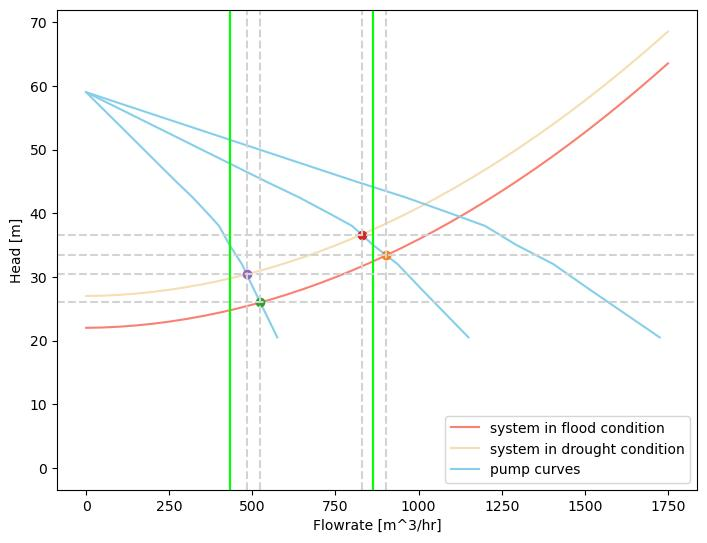
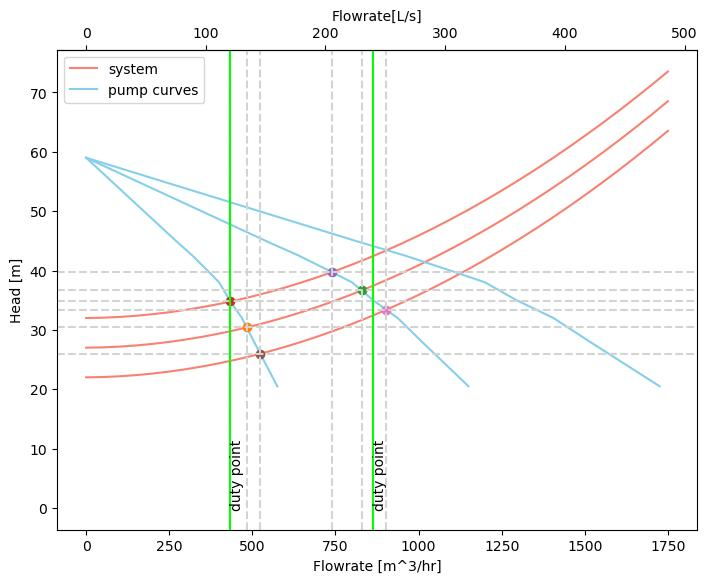
updayes

diff --git a/beccs.html b/beccs.html
@@ -53,72 +53,27 @@
 									<p>This project was presented as a requirement for the course MECH 450C: Energy Conversion and Storage, taught by Professor <b>Andrew Rowe</b>.
 										This project was done by myself, Jersey Kertawidjaja, and my teamate <b>Pouria Fyezi Oskouei</b>.
 									</p>
-									<h2>Background and Objectives</h2>
-									<p>One of the biggest challenges in the energy industry since industrialization is how to overcome greenhouse
-										gas (GHG) emissions, especially in the past three decades. In general, there are three ways to alleviate this
-										problem: 1- Utilizing more efficient energy systems 2- Using renewable energy sources 3- Finding a way to
-										lower the ever-growing amount of GHGs already being emitted in the atmosphere over a long time.
-									</p>
-									<p>
-										The latter method will be the focus of this project. Since carbon dioxide (CO2) presents itself as a major
-										GHG causing climate change, it is the substance in particular that is aimed to be reduced. To have a better
-										understanding as to why this is an issue to be addressed, the pre-industrial CO2 amount in the atmosphere
-										was 280ppm (part per million) or less. However, this has risen to more than 419ppm. This increase
-										indicates that the amount of CO2 released in the past two centuries is more than 1T tons (1012 Tons=1015
-										Kg). The increase causing climate change, which is one of the determinant reasons resulting in 1.2 °C
-										increase in average global temperature relative to the late-19th century. It is estimated, with the same
-										slope of GHG emissions, at the end of this century the mole fraction of CO2 in the atmosphere will reach
-										about 800ppm which will result in more than 4.5 °C temperature rise globally.
-									</p>
-									<p>
-										One of the proposed and currently used method to remove carbon from the atmosphere is called Direct
-										Air Capture (DAC), which involves the capture of CO2 directly from ambient air. It uses a combination of
-										chemical processes and engineered systems to selectively extract CO2 molecules from the atmosphere,
-										even when it is present in trace amounts. DAC facilities typically consist of large fans or other air intake
-										mechanisms that draw in air, which is then processed through a series of chemical sorbents or absorbents
-										designed to capture the CO2. Once the CO2 is captured, it can be separated from the sorbent, compressed,
-										and stored for subsequent use or long-term sequestration.
-									</p>
-									<p>
-										The captured CO2 can be used for a variety of purposes, including carbon-neutral fuel production,
-										enhanced oil recovery, or for direct underground storage in geological formations. DAC is considered a
-										promising technology for addressing the challenge of reducing atmospheric CO2 concentrations and
-										mitigating climate change. However, it is still relatively expensive and energy-intensive compared to some
-										other carbon removal methods.
-									</p>	
-									<!-- <p><b>bold</b> and this is <strong>strong</strong>. This is <i>italic</i> and this is <em>emphasized</em>.
-									This is <sup>superscript</sup> text and this is <sub>subscript</sub> text.
-									This is <u>underlined</u> and this is code: <code>for (;;) { ... }</code>.
-									Finally, this is a <a href="#">link</a>.</p> -->
-									
-									<hr />
-
-									<h2>Methods</h2>
-									<p>The purpose of this project is to conduct an exergetic analysis of a DAC system coupled with a power cycle
+									<h2>Objective</h2>
+									<p>The purpose of this project is to conduct an exergetic analysis of a Direct Air Capture (DAC) system coupled with a power cycle
 										(that runs on natural gas) and see how DAC affects the efficiency of the system. This configuration of biogas
 										power cycle and carbon capture is called Bioenergy with carbon capture and storage (BECCS) and is quite
 										an alluring solution to the climate issue.
 									</p>
-									<p>
-										The exergy destruction in the system can be pointed out in the process and so does respective solutions
-										to alleviate them. Moreover, as opposed to the DAC plants being currently run, we aim to find a better
-										input energy source (other than natural gas, which in its own utilization produces CO2) and evaluate their
-										corresponding feasibility.
-									</p>
-									<p>
+									<!-- <p>
 										Throughout the upcoming sections of the report, exergy analysis of a power cycle and CCS will be
 										conducted separately. Total exergy destruction will be calculated from the cumulative amount of each
 										device of each system, done to allocate the locations of large exergy destruction. The exhaust of the power
 										cycle system would then be coupled with the inlet air of the CCS. The affects of change in concentrations
 										can be noticed in CCS fuel requirements, and so does how the CCS affects the efficiency of the power cycle,
 										as it requires more fuel input. 
-									</p>
+									</p> -->
 
-									<h2>Result of Exergetic Analysis</h2>
+									<h2>Exergetic Analysis</h2>
 
-									<p>Exergetic calculations need to be done on the power cycle system as well as the carbon capture
-										component. Exergy of the states present in the components must be defined. Below are the expressions
-										that will be used for defining the exergetic values:
+									<p>Exergetic calculations were required to be done on the power cycle system as well as the carbon capture
+										component. My part specifically, was on the power cycle exergy analysis.<br /> <br />
+										
+										Below are the expressions that will be used for defining the exergetic values:
 									</p>
 									
 
@@ -137,13 +92,16 @@
 
 									<p>In order to compare the system effeciency of a typical natural gas (methane) power cycle, equipt with CCS,
 										with a biogas (methane from biological sources) power cycle system absent CCS, the schematic of the
-										process of power generation is needed.
+										process of power generation is needed. <b>Below is an image of the cycle generated with AutoCAD:</b>
 									</p>
 									
 									
 									<span class="image fit"><img src="images/exergy/exergy_thumbnail.png" alt="" /></span>
 
 									<h3>Component Breakdowns</h3>
+									<p>With the components broken down, a component exergy flux analysis can be conducted.<b> I utilized JupyterLab and CoolProp to store and organize
+										state properties of each components:</b>
+									</p>
 									<div class="row">
 										<div class="col-6 col-12-small">
 
@@ -190,105 +148,23 @@
 									</div>
 									<hr />
 
-									<h2>Carbon Capture System</h2>
 									<h2>Combination of powerplant and ccs</h2>
-									<p>The purpose of this section is to evaluate the coexistence of CCS and PP unit in a system at the same
-										time, in a way that the inflow for CCS is sourced from PP’s exhaust. As mentioned, this flow is almost 210
-										kg/s and CO2’s mole fraction in this flow is 9.5%.
-									</p>
-									<span class="image fit"><img src="images/exergy/exergy_ccs_combined.png" alt="" /></span>
-									<p>As it is seen from Figure 16, we neglect the air flow coming to the system which is actually a very big
-										amount however no exergetic value involved in it. The remarkable point in this combined system is
-										almost half the amount of methane being used in powerplant has to be spent for the CCS, this fact
-										decreases the whole system’s efficiency. To calculate the efficiency and come up the important values of
-										the system the following chart is shown:
-									</p>
-									<div class="table-wrapper">
-										<table>
-											<thead>
-												<tr>
-													<th>Exergy Flow</th>
-													<th>Values</th>
-												</tr>
-											</thead>
-											<tbody>
-												<tr>
-													<td>Total methane</td>
-													<td>17.07 kg/s</td>
-												</tr>
-												<tr>
-													<td>Turbine work (Powerplant)</td>
-													<td>143.58 MW</td>
-												</tr>
-												<tr>
-													<td>Compressed CO2</td>
-													<td>1 Mt of CO2/year</td>
-												</tr>
-												<tr>
-													<td>Heat from PP</td>
-													<td>490 MW at 323 K</td>
-												</tr>
-												<tr>
-													<td>Heat from the CCS</td>
-													<td>63 MW (calculated in the work loss) at 294 K</td>
-												</tr>
-											</tbody>
-										</table>
-									</div>
-									<p>To amount of exergetic flow for the heat coming out of PP is somewhat remarkable, although the quality
-										of this heat is only 15.5% the amount is considerable. Maybe there could be some way to take advantage
-										of this such as preheating process in CCS as can be seen in.
-									</p>
-									<p>All in all, the total efficiency of the system is calculated according to these values, which comes at
-										18.20% considering the 25.32% powerplant efficiency, this value is somehow not too bad.
+									<p>My teamate, Pouria, conducted the exergy analysis for the carbon capture system similarly.
+										To summarize, the total efficiency of the system (Power plant + Carbon Capture) comes at
+										18.20%. Considering the 25.32% powerplant efficiency, the addition of the carbon capture system, did not greatly
+										affect the system negatively.
 									</p>
 									<h2>Evaluation of sources for biogas</h2>
-									<p>The exergetic analysis conducted in section 3 was done using methane natural gas (CH4), of no source. But
-										when considering natural gas sources and carbon emissions, it is very important to consider the carbon
-										emission from the cradle to grave of the substance/product. In the late 90s the first concept of bioenergy
-										with carbon capture and storage (BECCS) was included in a book published by The United Nations
-										University Press, authored by Robert H. Williams. Williams proposed a biomass source energy generation
-										with carbon capture and sequestration technology. He concluded that the proposed system would induce
-										a net negative carbon emission to the earth’s atmosphere [7]. The quick rundown of BECCS is as illustrated
-										in Figure 17.
-									</p>
-									<span class="image left"><img src="images/exergy/exergy_BECCS.png" alt="" /></span>
-
-									<p>The reason why BECCS is considered net negative in emission is because the source of its fuel is obtained
-										from forest biomass. Forests naturally capture carbon from the atmosphere from due to the
-										photosynthesis process, hence if the CO2 emitted from a biogas powerplant is equal to the amount of CO2
-										absorbed by the trees that had been used up as fuel, the net carbon emission on the earth’s atmosphere
-										would be zero. Hence if an additional CCS is added as part of the power plant, whether it be exhaust
-										capture or DAQ, the net carbon emission emitted unto the earth’s atmosphere would be a net negative.
-									</p>
-									<span class="image right"><img src="images/exergy/exergy_landrequired.png" alt="" /></span>
-
-									<p>The idea of BECCS is very appealing in the emission strand point. But an issue that comes to mind quite
-										quickly would be, “how much more energy does it take to extract biogas as compared to conventional
-										methane from fossil fuel? Is it much more readily available?” Based on Figure 18, presented by a publishing
-										from the Imperial College, BECCS deployment: a reality check, the land area required for BECCS ranges
-										from 100 million hectares to 800 million hectares, depending on the amount of gigatons of CO2 are to be
-										captured per year. If BECCS is to be deployed for the means of intensive carbon capture, about 40% of the
-										world’s cropland would be used for it, causing environmental impacts on biodiversity [8].
-									</p>
-									<h2>Finishing thoughts</h2>
-									<p>Based on the calculations done on the CCS, it was found that a change of CO2 concentration of the inlet
-										changes the amount of work required significantly. The ideal work required for a DAC system that would
-										capture 1 Mt of CO2/year was found to be 20.412 MW. If the carbon capture system was placed near a
-										powerplant, with the aims of capturing the same amount of CO2 from the exhaust (with higher
-										concentration), the ideal work was found 4.21 MW, a significant reduction to a typical direct air capture.
-										On the side of the power plant on the other hand, adding a CCS into the system would reduce its efficiency
-										from 25.32% to 18.20%.
-									</p>
-									<p>The argument for BECCS is made based on the idea of “net negative” carbon emissions that it can provide.
+									<p><b>I was also responsible in reading about the environmental risks that is present when implement BECCS</b></p>
+									<p><span class="image right"><img src="images/exergy/exergy_landrequired.png" alt="" /></span>The argument for BECCS is made based on the idea of “net negative” carbon emissions that it can provide.
 										The idea of producing power while reducing carbon dioxide concentration in the atmosphere is very
-										alluring. Although arguments have been made against BECCS due to the fact that in order for it to be net
-										negative, the source of heat for its power cycle must come from bioenergy, trees in particular since they
-										are they present themselves are naturally occurring carbon capture devices. And as discussed in this
+										alluring. Although I've found several arguments that have been made against BECCS due to the fact that in order for it to be net
+										negative, the source of heat for its power cycle must come from bioenergy. And as discussed in this
 										report, the amount of land that is required to generate energy and capture carbon is quite significant,
 										ranging between 100 million to 800 million hectares. Such an increase of cropland would cause a balance
 										in biodiversity.
 									</p>
+									
 
 
 

diff --git a/pump.html b/pump.html
@@ -65,19 +65,14 @@
 									hundred metres (1.2 km) with an elevation increase between the reservoir and treatment surface being
 									twenty-two metres (22 m). An inlay of the piping route can be seen on top of the satellite image
 									provided by Google Earth.</p>
-									<!-- <p><b>bold</b> and this is <strong>strong</strong>. This is <i>italic</i> and this is <em>emphasized</em>.
-									This is <sup>superscript</sup> text and this is <sub>subscript</sub> text.
-									This is <u>underlined</u> and this is code: <code>for (;;) { ... }</code>.
-									Finally, this is a <a href="#">link</a>.</p> -->
 									
 									<hr />
 
 									<h2>Method</h2>
 									<p><span class="image right"><img src="images/pump/pump_curves_white.jpeg" alt="" /></span>
-									To specify the pumps that are needed for the system, an evaluation of the pump and system curve is
-									required. To generate the pump and system curve, one must have an approximation of the system and
-									pump curves. The system curve can be obtained by calculating the static and frictional requirements of
-									the system, where as the pump curve can be obtained from the manufacturer. The plot can be utilized to
+									To specify the pumps that are needed for the system, I conducted a pump and system curve analysis.
+									The system curve was obtained by calculating the static and frictional requirements of
+									the system, where as the pump curve was be obtained from the manufacturer. The plot of these curves can be utilized to
 									visualize different pump arrangements and operating conditions, such as but not limited to parallel
 									pumps and the inclusion of a throttling valve.</p>
 
@@ -92,7 +87,7 @@
 									
 									<h2>Pump and System Plots</h2>
 									<p>In order to develop the system curve, the elevation change, length of piping, and the types and number of fittings/valves must also be specified.
-										Since PDAM does not have the piping layout and specific drawings of the system, an approximation of pipe length and fitting information can be approximated.
+										Since PDAM does not have the piping layout and specific drawings of the system, an approximation of pipe length and fitting information was approximated.
 										The existing operating pumps do have an operating head that can be used as a reference. The table below summarizes the parameters used in this study.
 									</p>
 									<table>
@@ -173,16 +168,11 @@
 									</p>
 									<span class="image fit"><img src="images/pump/pump_curves_final.jpeg" alt="" /></span>
 
-									<p><span class="image left"><img src="images/pump/pump_curves_ilu.jpeg" alt="" /></span>It is found that two pumps will operate
-										at: 𝟗𝟎𝟐. 𝟖𝟏 <b>cubic meter per hour</b> , and 𝟑𝟑. 𝟑𝟖 𝐦 of head pressure. The curve
-										made in Figure 5 were made using idealized relationships using ideal coefficient values. In real-life, there
-										would be more to be found in the system. For example, rust or coagulation of undesirables within the
-										inner pipe would cause a decrease in pipe diameter and an increase in surface roughness. These would
-										significantly change a system’s head requirements. In the left image (general image, not specific to
-										this case), it can be seen that imperfections would cause a steeper rise in the system curve,
-										lowering the discharge rate from the desired point.</p>
+									<p>Based on the curve, I found that two pumps will operate
+										at: 829 <b>cubic meter per hour</b> , and <b>37 m of head pressure</b>.</p>
 
 									<h2>Pump Concept Drawings</h2>
+									<p><b>I was also responsible in generating conceptual drawings for the mounting of the pumps</b></p>
 									<span class="image fit"><img src="images/pump/pump_cons_1.jpeg" alt="" /></span>
 									<span class="image fit"><img src="images/pump/pump_cons_2.jpeg" alt="" /></span>
 							</section>

diff --git a/index.html b/index.html
@@ -75,17 +75,6 @@
 								</article>
 								<article>
 									<header>
-										<h2><a href="beccs.html">beccs<br />
-										exergy analysis</a></h2>
-									</header>
-									<a href="beccs.html" class="image fit"><img src="images/exergy/exergy_thumbnail.png" alt=""/></a>
-									<p>This was the main project in Andrew Rowe's class of "Energy Conversion and Storage." The class features a unique prespective when looking at usefulness (exergy). This project was relatively simple, a breakdown of component effeciencies and exergy destruction. Thou simple, this project will show case my ability to use AutoCAD and JupyterLab.</p>
-									<ul class="actions special">
-										<li><a href="beccs.html" class="button">Full Story</a></li>
-									</ul>
-								</article>
-								<article>
-									<header>
 										<h2><a href="pump.html">pump system<br />
 										design</a></h2>
 									</header>
@@ -97,7 +86,18 @@
 								</article>
 								<article>
 									<header>
-										<h2><a href="drafting.html">drafting<br />
+										<h2><a href="beccs.html">beccs<br />
+										exergy analysis</a></h2>
+									</header>
+									<a href="beccs.html" class="image fit"><img src="images/exergy/exergy_thumbnail.png" alt=""/></a>
+									<p>This was the main project in Andrew Rowe's class of "Energy Conversion and Storage." The class features a unique prespective when looking at usefulness (exergy). This project was relatively simple, a breakdown of component effeciencies and exergy destruction. Thou simple, this project will show case my ability to use AutoCAD and JupyterLab.</p>
+									<ul class="actions special">
+										<li><a href="beccs.html" class="button">Full Story</a></li>
+									</ul>
+								</article>
+								<article>
+									<header>
+										<h2><a href="drafting.html">drafting/modelling<br />
 										overview</a></h2>
 									</header>
 									<a href="drafting.html" class="image fit"><img src="images/drafting/airplanevtol.jpg" alt="" /></a>
